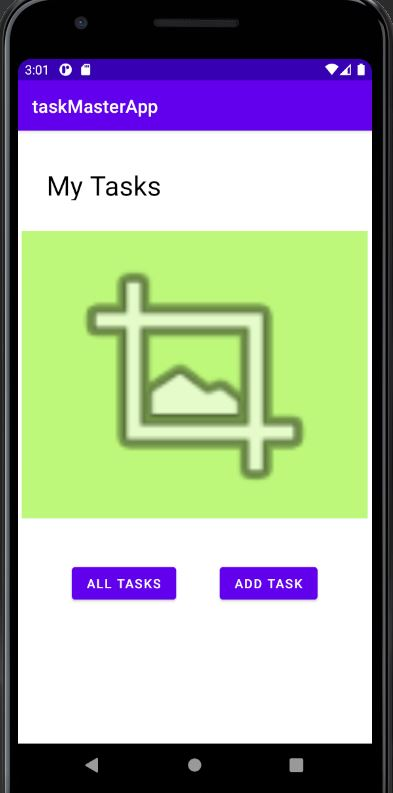
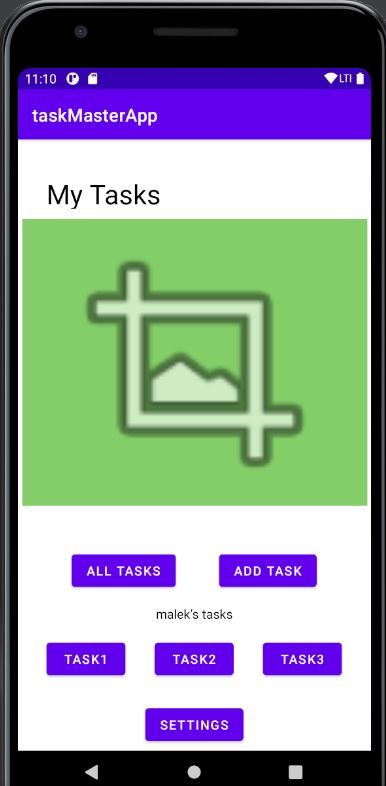
lab 27 is DONE

diff --git a/app/src/main/java/com/example/taskmasterapp/MainActivity.java b/app/src/main/java/com/example/taskmasterapp/MainActivity.java
@@ -3,16 +3,26 @@ package com.example.taskmasterapp;
 import androidx.appcompat.app.AppCompatActivity;
 
 import android.content.Intent;
+import android.content.SharedPreferences;
 import android.os.Bundle;
+import android.preference.PreferenceManager;
 import android.view.View;
 import android.widget.Button;
+import android.widget.TextView;
 
 public class MainActivity extends AppCompatActivity {
+
 
     @Override
     protected void onCreate(Bundle savedInstanceState) {
         super.onCreate(savedInstanceState);
         setContentView(R.layout.activity_main);
+
+        Button taskOneButt = (Button) findViewById(R.id.task1Button);
+    Button taskTwoButt = (Button) findViewById(R.id.task2Button);
+    Button taskThirdButt = (Button) findViewById(R.id.task3Button);
+
+
 
 
         /** Called when the user taps the Add Task button */
@@ -38,8 +48,68 @@ public class MainActivity extends AppCompatActivity {
                 startActivity(intent);
             }
         });
+
+        /** Called when the user taps the Task1 button */
+
+        taskOneButt.setOnClickListener(new View.OnClickListener() {
+            @Override
+            public void onClick(View v) {
+                // Do something in response to button click
+                Intent intent = new Intent(MainActivity.this, TaskDetailActivity.class);
+                intent.putExtra("titleButton",taskOneButt.getText().toString());
+                startActivity(intent);
+            }
+        });
+
+
+        /** Called when the user taps the Task2 button */
+
+        taskTwoButt.setOnClickListener(new View.OnClickListener() {
+            @Override
+            public void onClick(View v) {
+                // Do something in response to button click
+                Intent intent = new Intent(MainActivity.this, TaskDetailActivity.class);
+                intent.putExtra("titleButton",taskTwoButt.getText().toString());
+                startActivity(intent);
+            }
+        });
+
+        /** Called when the user taps the Task3 button */
+
+        taskThirdButt.setOnClickListener(new View.OnClickListener() {
+            @Override
+            public void onClick(View v) {
+                // Do something in response to button click
+                Intent intent = new Intent(MainActivity.this, TaskDetailActivity.class);
+                intent.putExtra("titleButton",taskThirdButt.getText().toString());
+                startActivity(intent);
+            }
+        });
+
+
+        /** Called when the user taps the Settings button */
+        Button settingButt = (Button) findViewById(R.id.settingsButton);
+        settingButt.setOnClickListener(new View.OnClickListener() {
+            @Override
+            public void onClick(View v) {
+                // Do something in response to button click
+                Intent intent = new Intent(MainActivity.this, SettingsActivity.class);
+                startActivity(intent);
+            }
+        });
+
+
     }
 
+    @Override
+    protected void onResume() {
+        super.onResume();
 
+        // ------------- Getting SharedPreferences --------------------
+        SharedPreferences sharedPreferences = PreferenceManager.getDefaultSharedPreferences(this);
+        String userName = sharedPreferences.getString("userName", "Welcome");
+        TextView userNameTextView = (TextView) findViewById(R.id.userNameTextView);
+        userNameTextView.setText(userName+"’s tasks");
 
+    }
 }

diff --git a/app/src/main/java/com/example/taskmasterapp/SettingsActivity.java b/app/src/main/java/com/example/taskmasterapp/SettingsActivity.java
@@ -1,0 +1,41 @@
+package com.example.taskmasterapp;
+
+import androidx.appcompat.app.AppCompatActivity;
+
+import android.content.Intent;
+import android.content.SharedPreferences;
+import android.os.Bundle;
+import android.preference.PreferenceManager;
+import android.view.View;
+import android.widget.Button;
+import android.widget.EditText;
+import android.widget.TextView;
+
+public class SettingsActivity extends AppCompatActivity {
+
+    @Override
+    protected void onCreate(Bundle savedInstanceState) {
+        super.onCreate(savedInstanceState);
+        setContentView(R.layout.activity_settings);
+
+        EditText userNameEditText = (EditText) findViewById(R.id.userNameEditText);
+        SharedPreferences sharedPreferences = PreferenceManager.getDefaultSharedPreferences(this);
+        SharedPreferences.Editor editor = sharedPreferences.edit();
+
+
+        /** Called when the user taps the Save button */
+        Button saveButt = (Button) findViewById(R.id.saveButton);
+        saveButt.setOnClickListener(new View.OnClickListener() {
+            @Override
+            public void onClick(View v) {
+                // Do something in response to button click
+                editor.putString("userName",userNameEditText.getText().toString());
+                editor.commit();
+
+                finish();
+//                Intent intent = new Intent(SettingsActivity.this, MainActivity.class);
+//                startActivity(intent);
+            }
+        });
+    }
+}

diff --git a/app/src/main/java/com/example/taskmasterapp/TaskDetailActivity.java b/app/src/main/java/com/example/taskmasterapp/TaskDetailActivity.java
@@ -1,0 +1,24 @@
+package com.example.taskmasterapp;
+
+import androidx.appcompat.app.AppCompatActivity;
+
+import android.content.Intent;
+import android.os.Bundle;
+import android.widget.TextView;
+
+public class TaskDetailActivity extends AppCompatActivity {
+
+    @Override
+    protected void onCreate(Bundle savedInstanceState) {
+        super.onCreate(savedInstanceState);
+        setContentView(R.layout.activity_task_detail);
+
+        // Get the Intent that started this activity and extract the string
+        String message = getIntent().getStringExtra("titleButton");
+
+        // Capture the layout's TextView and set the string as its text
+        TextView textView = findViewById(R.id.taskTitleTextView);
+        textView.setText(message);
+
+    }
+}

diff --git a/README.md b/README.md
@@ -1,5 +1,22 @@
 # taskmaster
-### Lab: 26 - Beginning TaskMaster
+### Lab: 27 - Data in TaskMaster
+` Task Detail Page ` 
 
+Create a Task Detail page. It should have a title at the top of the page, and a Lorem Ipsum description.
+
+` Settings Page `
+
+Create a Settings page. It should allow users to enter their username and hit save.
+
+`Homepage`
+
+The main page should be modified to contain three different buttons with hardcoded task titles. When a user taps one of the titles, it should go to the Task Detail page, and the title at the top of the page should match the task title that was tapped on the previous page.
+
+The homepage should also contain a button to visit the Settings page, and once the user has entered their username, it should display “{username}’s tasks” above the three task buttons.
+
+### Screenshots
 ##### Homepage
 ![Homepage screenshots](screenshots/homePage26.jpg)
+
+##### Task Detail
+![Task Detail screenshots](screenshots/detailActivity.jpg)
